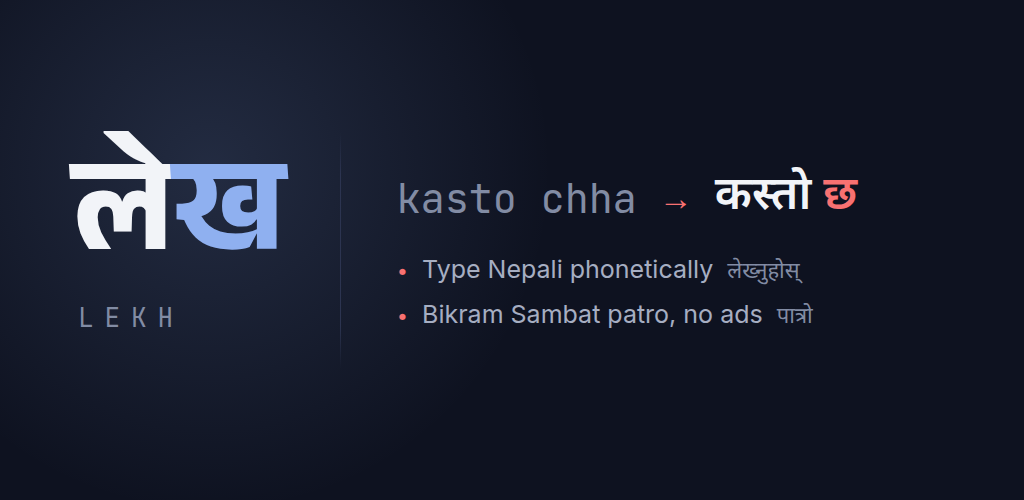
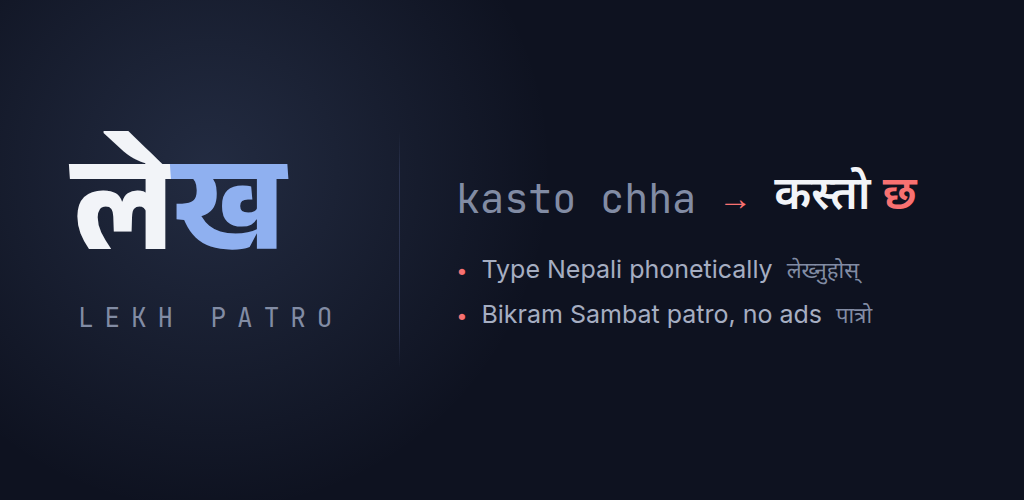
Rename the app from Lekh to Lekh Patro everywhere
The Android app already shipped as "Lekh Patro"; the web app's own
branding (PWA manifest, page title, app bar, boot screen, About sheet,
privacy policy, marketing images) still said plain "Lekh". Unify on
"Lekh Patro" ahead of the Play Store submission. Bumps to 1.8.8 per
the version-bump rule.

Claude-Session: https://claude.ai/code/session_01PYpjo4DyZZcSTk2dAV3owA

diff --git a/index.html b/index.html
@@ -47,7 +47,7 @@
       rel="stylesheet"
     />
     <meta name="viewport" content="width=device-width, initial-scale=1.0, viewport-fit=cover" />
-    <title>लेख · Lekh — Nepali typing, transliteration, OCR & translation</title>
+    <title>लेख · Lekh Patro — Nepali typing, transliteration, OCR & translation</title>
     <meta
       name="description"
       content="Type Nepali the way you already text it. Romanized-to-Devanagari transliteration, a full script cheat sheet, and a document/photo upload that reads Nepali or English text and translates it — runs entirely in your browser."
@@ -71,9 +71,9 @@
          see design/README.md for the render command. Absolute URLs, because
          most crawlers will not resolve a relative og:image. -->
     <meta property="og:type" content="website" />
-    <meta property="og:site_name" content="Lekh" />
+    <meta property="og:site_name" content="Lekh Patro" />
     <meta property="og:url" content="https://lekh-gamma.vercel.app/" />
-    <meta property="og:title" content="लेख · Lekh — type Nepali the way you already text it" />
+    <meta property="og:title" content="लेख · Lekh Patro — type Nepali the way you already text it" />
     <meta
       property="og:description"
       content="Romanized-to-Devanagari transliteration, a script cheat sheet, photo/PDF OCR and EN ↔ NE translation. No account, no upload — everything runs in your browser."
@@ -86,11 +86,11 @@
     <meta property="og:image:height" content="630" />
     <meta
       property="og:image:alt"
-      content="Lekh — the लेख wordmark beside the line 'Type Nepali the way you already text it', showing kasto chha converting to कस्तो छ."
+      content="Lekh Patro — the लेख wordmark beside the line 'Type Nepali the way you already text it', showing kasto chha converting to कस्तो छ."
     />
     <meta name="twitter:card" content="summary_large_image" />
     <meta name="twitter:image" content="https://lekh-gamma.vercel.app/og-image.png" />
-    <meta name="twitter:title" content="लेख · Lekh — Nepali typing in your browser" />
+    <meta name="twitter:title" content="लेख · Lekh Patro — Nepali typing in your browser" />
     <meta
       name="twitter:description"
       content="Type romanized Nepali, get Devanagari. Plus photo/PDF OCR and EN ↔ NE translation — all offline-capable, nothing leaves your device."

diff --git a/public/privacy.html b/public/privacy.html
@@ -3,10 +3,10 @@
   <head>
     <meta charset="utf-8" />
     <meta name="viewport" content="width=device-width, initial-scale=1" />
-    <title>Privacy — Lekh</title>
+    <title>Privacy — Lekh Patro</title>
     <meta
       name="description"
-      content="What Lekh does and does not send off your device, and what it stores locally."
+      content="What Lekh Patro does and does not send off your device, and what it stores locally."
     />
     <link rel="icon" type="image/png" sizes="32x32" href="/favicon-32x32.png" />
     <link rel="canonical" href="https://lekh-gamma.vercel.app/privacy.html" />
@@ -122,12 +122,13 @@
   <body>
     <main>
       <h1>Privacy</h1>
-      <p class="updated">Lekh · last updated 14 August 2026</p>
+      <p class="updated">Lekh Patro · last updated 15 August 2026</p>
 
       <p class="lede">
-        Lekh has no accounts, no analytics, no advertising and no tracking of any kind. It sets no
-        cookies. Nothing you write is stored on a server, because there is no server that belongs
-        to Lekh — the site is static files and everything else happens in your browser.
+        Lekh Patro has no accounts, no analytics, no advertising and no tracking of any kind. It
+        sets no cookies. Nothing you write is stored on a server, because there is no server that
+        belongs to Lekh Patro — the site is static files and everything else happens in your
+        browser.
       </p>
 
       <p>
@@ -172,7 +173,7 @@
       <div class="card">
         <h3>2. Fonts</h3>
         <p>
-          The site loads its typefaces from Google Fonts, so opening Lekh makes a request that
+          The site loads its typefaces from Google Fonts, so opening Lekh Patro makes a request that
           reveals your IP address and browser to Google, as almost any website does. No content of
           yours is involved.
         </p>
@@ -221,7 +222,7 @@
 
       <h2>Children</h2>
       <p>
-        Lekh is a general-purpose typing and calendar tool. It does not knowingly collect personal
+        Lekh Patro is a general-purpose typing and calendar tool. It does not knowingly collect personal
         information from anyone, of any age, because it does not collect personal information.
       </p>
 
@@ -237,7 +238,7 @@
       </p>
 
       <footer>
-        <a href="/">← Back to Lekh</a>
+        <a href="/">← Back to Lekh Patro</a>
       </footer>
     </main>
   </body>

diff --git a/src/components/AboutSheet.tsx b/src/components/AboutSheet.tsx
@@ -90,7 +90,7 @@ export function AboutSheet({ open, onClose, onGoTo }: AboutSheetProps) {
           <span className="about__mark">
             <LekhMark inkClassName="about__ink" />
           </span>
-          <span className="about__latin">lekh</span>
+          <span className="about__latin">lekh patro</span>
         </p>
 
         <h2 id="about-title" className="about__headline dev-serif">
@@ -205,7 +205,7 @@ export function AboutSheet({ open, onClose, onGoTo }: AboutSheetProps) {
           </a>
         </p>
         <p className="about__meta">
-          <span className="dev">लेख</span> Lekh · v{__APP_VERSION__} · © {new Date().getFullYear()}
+          <span className="dev">लेख</span> Lekh Patro · v{__APP_VERSION__} · © {new Date().getFullYear()}
         </p>
       </div>
     </dialog>

diff --git a/src/components/BootScreen.tsx b/src/components/BootScreen.tsx
@@ -155,7 +155,7 @@ export function BootScreen({ onDone }: BootScreenProps) {
       className={`boot${exiting ? ' boot--exiting' : ''}`}
       role="status"
       aria-busy={!exiting}
-      aria-label="Lekh is starting"
+      aria-label="Lekh Patro is starting"
     >
       <div className="boot__stage">
         {/* One animated unit — see LekhMark for why the two halves cannot be
@@ -182,7 +182,7 @@ export function BootScreen({ onDone }: BootScreenProps) {
         </svg>
 
         <p className="boot__latin" aria-hidden="true">
-          lekh
+          lekh patro
         </p>
 
         {/* A hairline, and no percentage beside it. The readout was precise

diff --git a/src/components/UpdatePrompt.tsx b/src/components/UpdatePrompt.tsx
@@ -89,7 +89,7 @@ export function UpdatePrompt({ suppressed = false }: UpdatePromptProps) {
     <div className="update-prompt" role="status" aria-live="polite">
       <p className="update-prompt__text">
         <span className="update-prompt__dot" aria-hidden="true" />
-        A new version of <span className="dev">लेख</span> is ready.
+        A new version of <span className="dev">लेख</span> Patro is ready.
       </p>
       {/*
         Said plainly rather than discovered afterwards. Reloading throws away

diff --git a/vite.config.ts b/vite.config.ts
@@ -35,8 +35,8 @@ export default defineConfig({
       registerType: 'prompt',
       injectRegister: null,
       manifest: {
-        name: 'Lekh — नेपाली Typing',
-        short_name: 'Lekh',
+        name: 'Lekh Patro — नेपाली Typing',
+        short_name: 'Lekh Patro',
         id: '/',
         /* Declares the Android APK as a related app, which is what lets
            navigator.getInstalledRelatedApps() answer "they already have it" and

diff --git a/src/App.tsx b/src/App.tsx
@@ -154,7 +154,7 @@ function App() {
               affordance than one that plainly does nothing. */}
           <span className="app-bar__brand">
             <span className="dev">लेख</span>
-            <span className="app-bar__brand-latin">lekh</span>
+            <span className="app-bar__brand-latin">lekh patro</span>
           </span>
           <TabSwitcher active={tab} onChange={setTab} />
           <div className="app-bar__actions">

diff --git a/design/og-image.html b/design/og-image.html
@@ -185,7 +185,7 @@
           <path d="M4 9 C 80 2, 220 2, 296 8" stroke="#f87171" stroke-width="3.2" stroke-linecap="round" opacity=".75" />
           <path d="M40 12 C 120 7, 200 7, 262 11" stroke="#f87171" stroke-width="1.6" stroke-linecap="round" opacity=".28" />
         </svg>
-        <div class="latin">lekh</div>
+        <div class="latin">lekh patro</div>
       </div>
 
       <div class="right">

diff --git a/src/components/InstallButton.tsx b/src/components/InstallButton.tsx
@@ -77,7 +77,7 @@ export function InstallButton() {
          accessibility tree, so the name would survive on its own — but the
          name is doing real work here and should not depend on a stylesheet
          detail somebody could reasonably change. */
-      aria-label="Install Lekh"
+      aria-label="Install Lekh Patro"
       onClick={() => void promptInstall()}
     >
       <DownloadIcon />

diff --git a/src/components/AboutButton.tsx b/src/components/AboutButton.tsx
@@ -20,7 +20,7 @@ export function AboutButton({ onClick }: AboutButtonProps) {
     <button
       type="button"
       className="about-btn"
-      aria-label="About Lekh"
+      aria-label="About Lekh Patro"
       aria-haspopup="dialog"
       onClick={onClick}
     >

diff --git a/design/feature-graphic.html b/design/feature-graphic.html
@@ -134,7 +134,7 @@
   <body>
     <div class="brand">
       <div class="wordmark">ले<b>ख</b></div>
-      <div class="latin">LEKH</div>
+      <div class="latin">LEKH PATRO</div>
     </div>
 
     <div class="rule"></div>

diff --git a/README.md b/README.md
@@ -1,4 +1,4 @@
-# Lekh (लेख) — Nepali Typing
+# Lekh Patro (लेख) — Nepali Typing
 
 [![Live](https://img.shields.io/badge/Live-lekh--gamma.vercel.app-facc15)](https://lekh-gamma.vercel.app)
 [![React](https://img.shields.io/badge/React-19-61dafb?logo=react&logoColor=white)](https://react.dev)
@@ -8,7 +8,7 @@
 [![PWA](https://img.shields.io/badge/PWA-installable-5a0fc8)](https://lekh-gamma.vercel.app)
 
 Type Nepali without a Nepali keyboard: write romanized Nepali — `kasto chha`
-— and Lekh converts it to Devanagari — कस्तो छ — as you type, IME-style,
+— and Lekh Patro converts it to Devanagari — कस्तो छ — as you type, IME-style,
 right in the browser.
 
 **Live (install from there):** https://lekh-gamma.vercel.app
@@ -74,7 +74,7 @@ baseline and renders instantly; the app then fetches the same month from
 upstream, which re-scrapes daily, so a holiday added or dropped by cabinet
 decision arrives within about a day and years past the bundled range work
 without a redeploy. The calendar says which source the month on screen came
-from — this is the one place in Lekh that touches the network, and it is not
+from — this is the one place in Lekh Patro that touches the network, and it is not
 hidden. It is a plain GET for a public file with nothing about you attached,
 and the service worker caches it so a month fetched once keeps working
 offline.
@@ -135,7 +135,7 @@ TWA that wraps the web app; see `android/README.md`.
 
 ## Installing and updating
 
-Lekh is an installable PWA with a real service worker — the typing engine,
+Lekh Patro is an installable PWA with a real service worker — the typing engine,
 dictionary, and cheat sheet work offline. Details worth knowing:
 
 - **Install button** in the header, captured from `beforeinstallprompt`.
